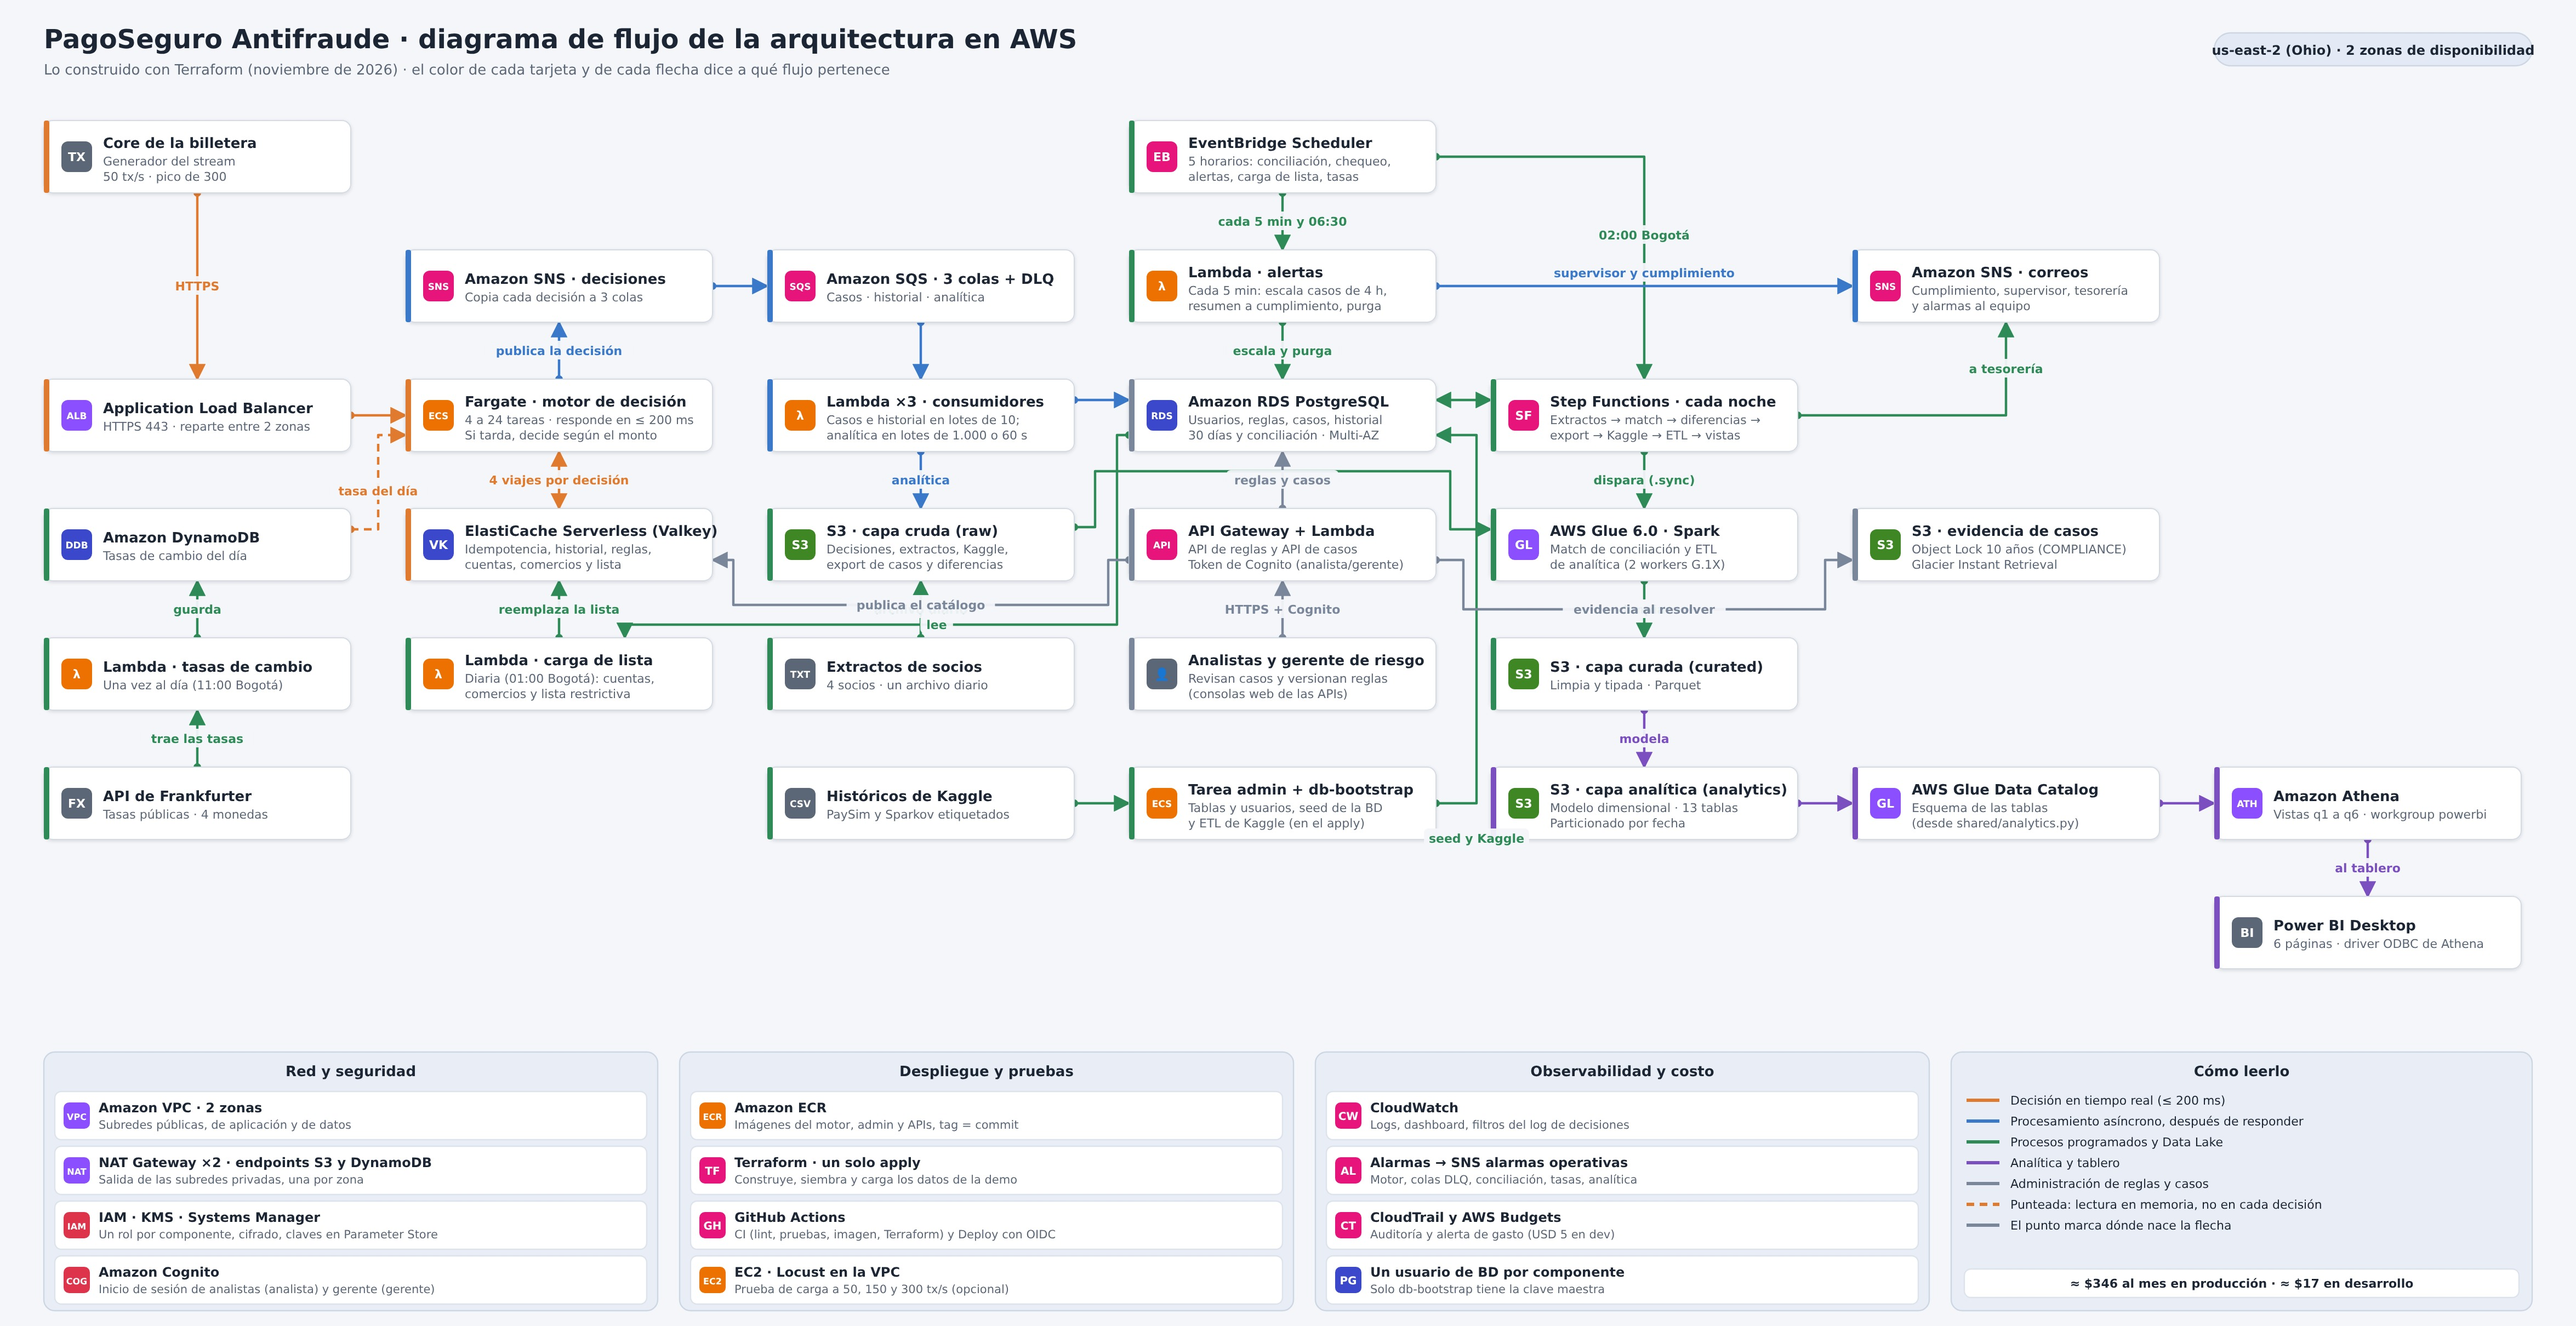
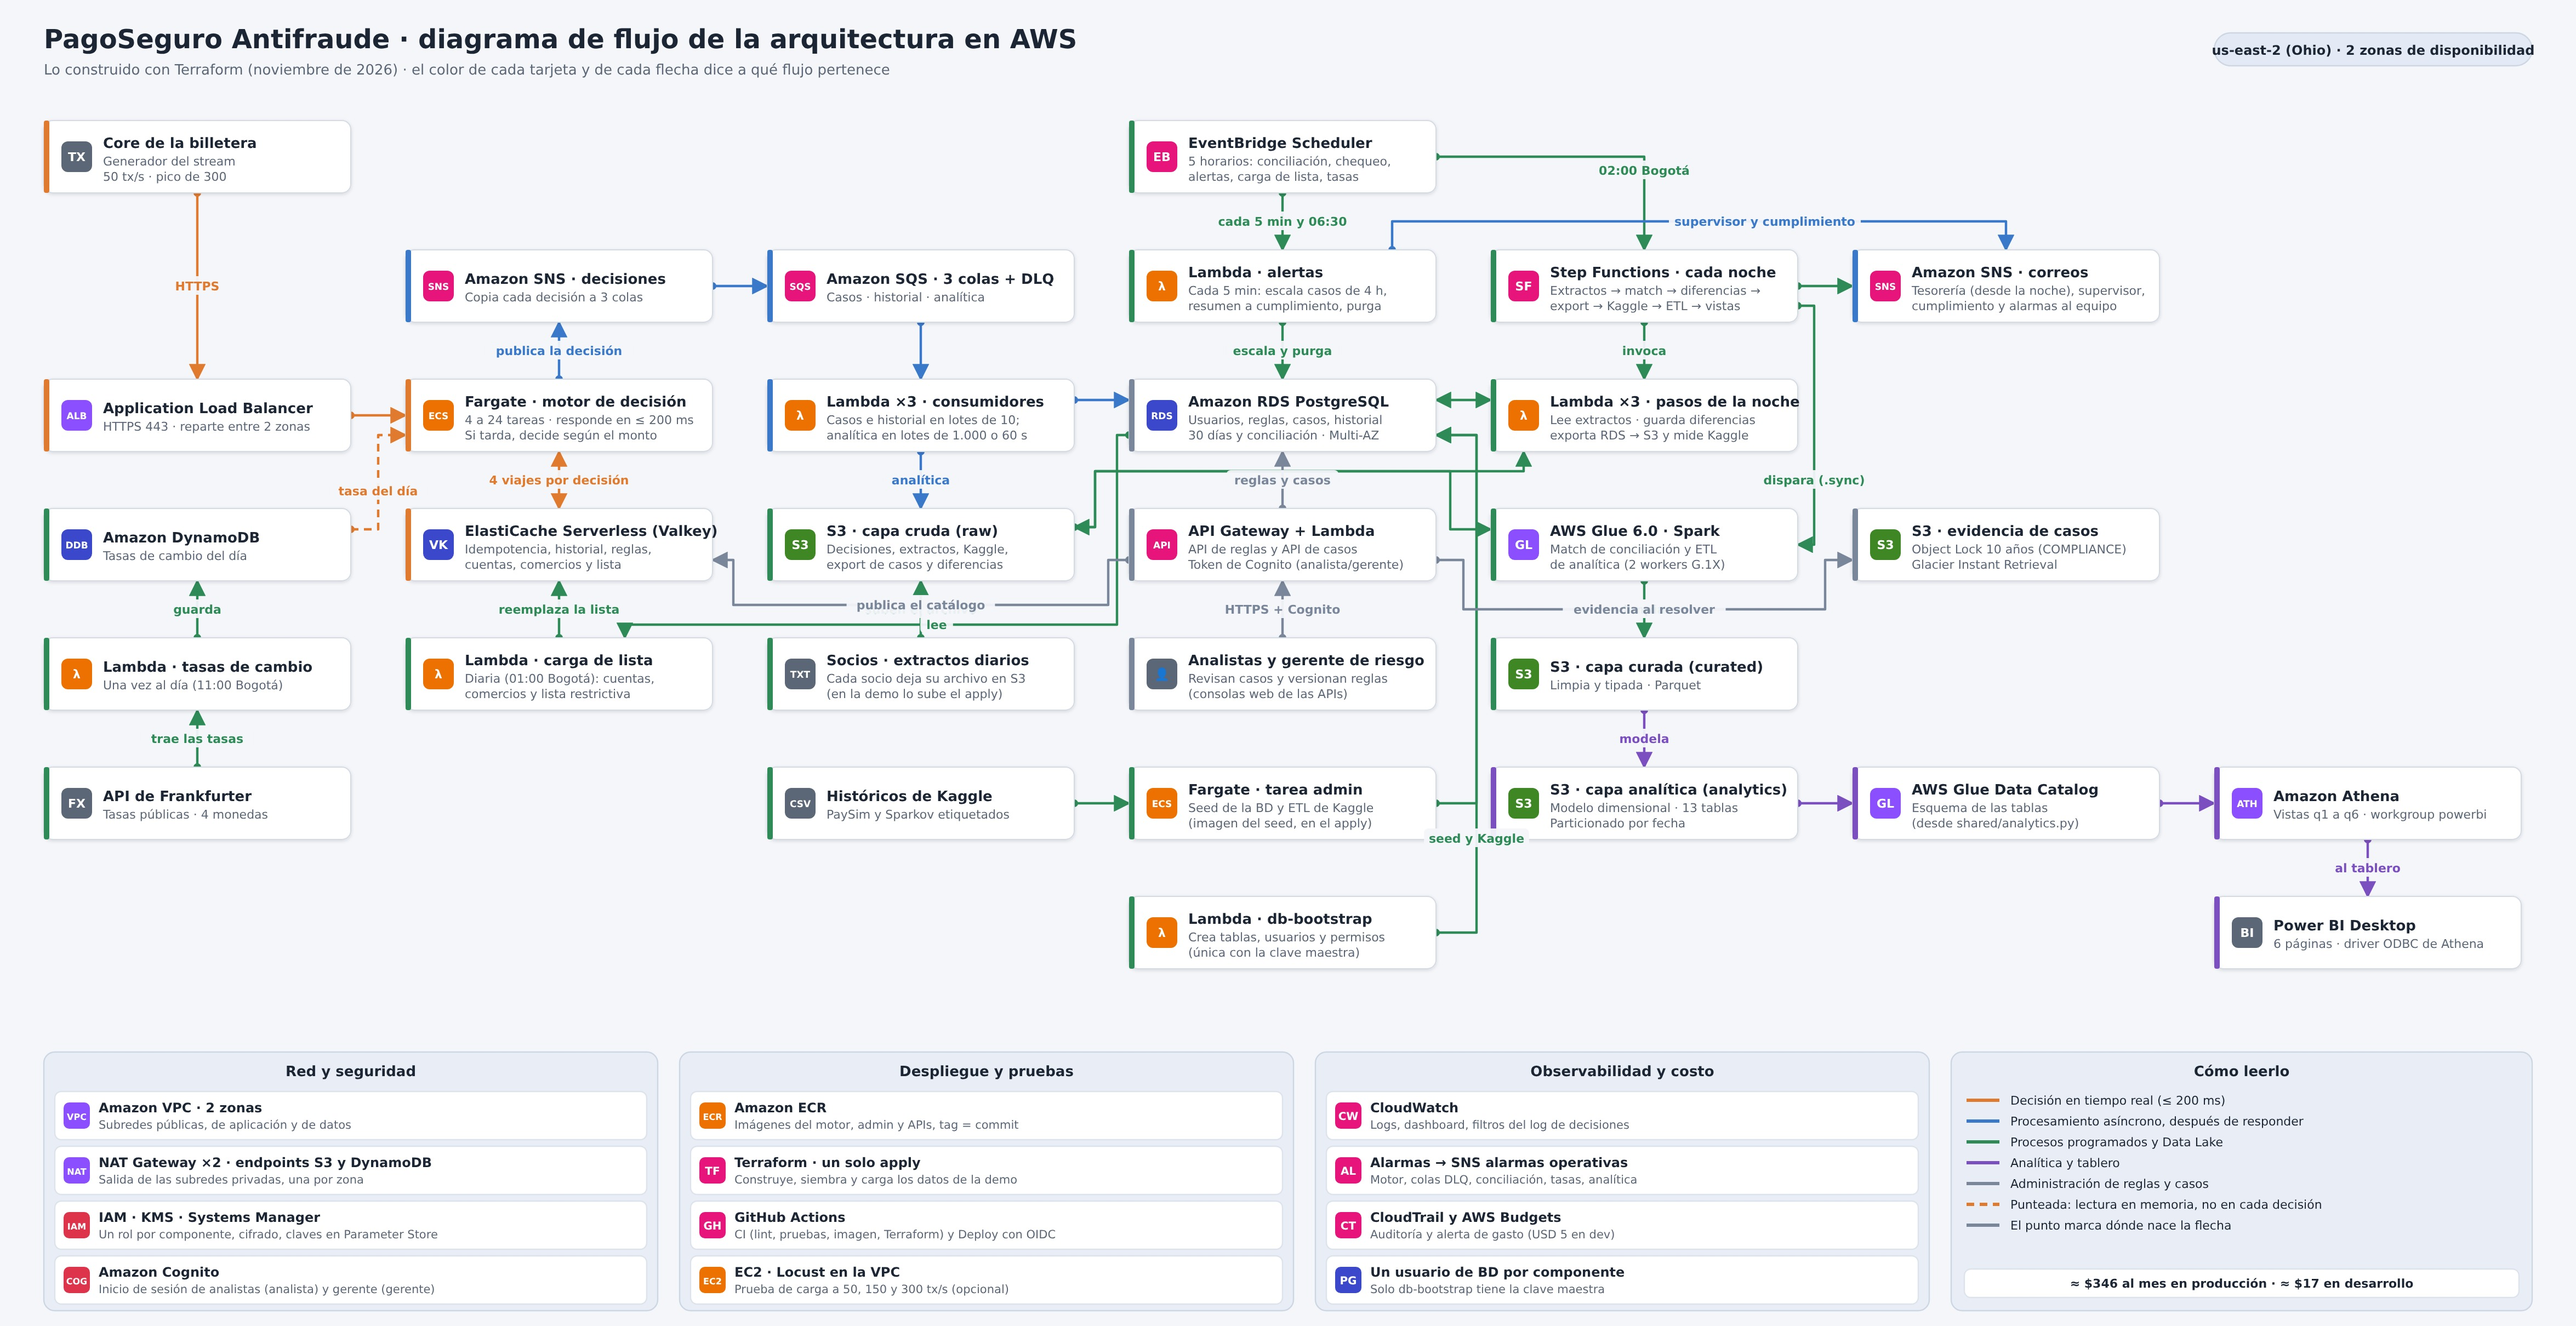
docs(MAG-308): show partners, db-bootstrap and night Lambdas
The flow diagram now says the partners drop their files in S3, splits the
admin task (Fargate) from the db-bootstrap Lambda and shows the three
Lambdas that Step Functions invokes, the export with the Kaggle
measurement among them.

diff --git a/doc-website/diagrams/architecture_flow.py b/doc-website/diagrams/architecture_flow.py
@@ -64,7 +64,7 @@ loader = card(1, 4, "Lambda · carga de lista", "Diaria (01:00 Bogotá): cuentas
 sqs = card(2, 1, "Amazon SQS · 3 colas + DLQ", "Casos · historial · analítica", "async", "integration", "SQS")
 consumers = card(2, 2, "Lambda ×3 · consumidores", "Casos e historial en lotes de 10;\nanalítica en lotes de 1.000 o 60 s", "async", "compute", "λ")
 raw = card(2, 3, "S3 · capa cruda (raw)", "Decisiones, extractos, Kaggle,\nexport de casos y diferencias", "batch", "storage", "S3")
-partners = card(2, 4, "Extractos de socios", "4 socios · un archivo diario", "batch", "external", "TXT")
+partners = card(2, 4, "Socios · extractos diarios", "Cada socio deja su archivo en S3\n(en la demo lo sube el apply)", "batch", "external", "TXT")
 kaggle = card(2, 5, "Históricos de Kaggle", "PaySim y Sparkov etiquetados", "batch", "external", "CSV")
 
 # Column 3: schedules, alerts, the database and the APIs.
@@ -73,23 +73,25 @@ alerts = card(3, 1, "Lambda · alertas", "Cada 5 min: escala casos de 4 h,\nresu
 rds = card(3, 2, "Amazon RDS PostgreSQL", "Usuarios, reglas, casos, historial\n30 días y conciliación · Multi-AZ", "admin", "database", "RDS")
 api = card(3, 3, "API Gateway + Lambda", "API de reglas y API de casos\nToken de Cognito (analista/gerente)", "admin", "integration", "API")
 people = card(3, 4, "Analistas y gerente de riesgo", "Revisan casos y versionan reglas\n(consolas web de las APIs)", "admin", "external", "👤")
-admin = card(3, 5, "Tarea admin + db-bootstrap", "Tablas y usuarios, seed de la BD\ny ETL de Kaggle (en el apply)", "batch", "compute", "ECS")
+admin = card(3, 5, "Fargate · tarea admin", "Seed de la BD y ETL de Kaggle\n(imagen del seed, en el apply)", "batch", "compute", "ECS")
+dbboot = card(3, 6, "Lambda · db-bootstrap", "Crea tablas, usuarios y permisos\n(única con la clave maestra)", "batch", "compute", "λ")
 
 # Column 4: the nightly pipeline.
-sfn = card(4, 2, "Step Functions · cada noche", "Extractos → match → diferencias →\nexport → Kaggle → ETL → vistas", "batch", "integration", "SF")
+sfn = card(4, 1, "Step Functions · cada noche", "Extractos → match → diferencias →\nexport → Kaggle → ETL → vistas", "batch", "integration", "SF")
+night = card(4, 2, "Lambda ×3 · pasos de la noche", "Lee extractos · guarda diferencias\nexporta RDS → S3 y mide Kaggle", "batch", "compute", "λ")
 glue = card(4, 3, "AWS Glue 6.0 · Spark", "Match de conciliación y ETL\nde analítica (2 workers G.1X)", "batch", "analytics", "GL")
 curated = card(4, 4, "S3 · capa curada (curated)", "Limpia y tipada · Parquet", "batch", "storage", "S3")
 model = card(4, 5, "S3 · capa analítica (analytics)", "Modelo dimensional · 13 tablas\nParticionado por fecha", "analytics", "storage", "S3")
 
 # Columns 5 and 6: notices, evidence and the dashboard.
-mails = card(5, 1, "Amazon SNS · correos", "Cumplimiento, supervisor, tesorería\ny alarmas al equipo", "async", "integration", "SNS")
+mails = card(5, 1, "Amazon SNS · correos", "Tesorería (desde la noche), supervisor,\ncumplimiento y alarmas al equipo", "async", "integration", "SNS")
 evidence = card(5, 3, "S3 · evidencia de casos", "Object Lock 10 años (COMPLIANCE)\nGlacier Instant Retrieval", "admin", "storage", "S3")
 catalog = card(5, 5, "AWS Glue Data Catalog", "Esquema de las tablas\n(desde shared/analytics.py)", "analytics", "analytics", "GL")
 athena = card(6, 5, "Amazon Athena", "Vistas q1 a q6 · workgroup powerbi", "analytics", "analytics", "ATH")
 pbi = card(6, 6, "Power BI Desktop", "6 páginas · driver ODBC de Athena", "analytics", "external", "BI")
 
 cards = [core, alb, rates, rates_fn, frank, sns_dec, engine, cache, loader, sqs, consumers, raw,
-         partners, kaggle, sched, alerts, rds, api, people, admin, sfn, glue, curated, model,
+         partners, kaggle, sched, alerts, rds, api, people, admin, dbboot, sfn, night, glue, curated, model,
          mails, evidence, catalog, athena, pbi]
 
 # Real time (orange).
@@ -113,13 +115,16 @@ s.arrow([rates_fn.top(), rates.bottom()], "batch", "guarda")
 s.arrow([loader.top(), cache.bottom()], "batch", "reemplaza la lista")
 s.arrow([rds.left(18), (lane(2) + 14, rds.cy + 18), (lane(2) + 14, gap(3) + 14), (loader.cx + 60, gap(3) + 14), loader.top(60)], "batch", "lee", at=2, lx=60)
 s.arrow([alerts.bottom(), rds.top()], "batch", "escala y purga")
-s.arrow([alerts.right(), mails.left()], "async", "supervisor y cumplimiento", ly=-12)
-s.arrow([partners.top(), raw.bottom()], "batch", "archivo diario")
+s.arrow([alerts.top(100), (alerts.cx + 100, gap(0)), (mails.cx, gap(0)), mails.top()], "async", "supervisor y cumplimiento", at=1, lx=60)
+s.arrow([partners.top(), raw.bottom()], "batch", "suben el archivo")
 s.arrow([kaggle.right(), admin.left()], "batch")
 s.arrow([admin.right(), (lane(3) + 12, admin.cy), (lane(3) + 12, rds.cy + 18), rds.right(18)], "batch", "seed y Kaggle", at=1, ly=200)
-s.arrow([sfn.left(-14), rds.right(-14)], "batch", both=True)
-s.arrow([sfn.right(), (mails.cx, sfn.cy), mails.bottom()], "batch", "a tesorería", at=1)
-s.arrow([sfn.bottom(), glue.top()], "batch", "dispara (.sync)")
+s.arrow([dbboot.right(), (lane(3) + 12, dbboot.cy), (lane(3) + 12, rds.cy + 18), rds.right(18)], "batch")
+s.arrow([sfn.bottom(), night.top()], "batch", "invoca")
+s.arrow([night.left(-14), rds.right(-14)], "batch", both=True)
+s.arrow([sfn.right(), mails.left()], "batch")
+s.arrow([sfn.right(18), (lane(4) - 10, sfn.cy + 18), (lane(4) - 10, glue.cy), glue.right()], "batch", "dispara (.sync)", at=1, ly=50)
+s.arrow([raw.right(-16), (lane(2) - 6, raw.cy - 16), (lane(2) - 6, gap(2) - 8), (night.cx - 110, gap(2) - 8), night.bottom(-110)], "batch", both=True)
 s.arrow([raw.right(-16), (lane(2) - 6, raw.cy - 16), (lane(2) - 6, gap(2) - 8), (lane(3) - 12, gap(2) - 8), (lane(3) - 12, glue.cy - 14), glue.left(-14)], "batch")
 s.arrow([glue.bottom(), curated.top()], "batch", "limpia")
 s.arrow([curated.bottom(), model.top()], "analytics", "modela")
